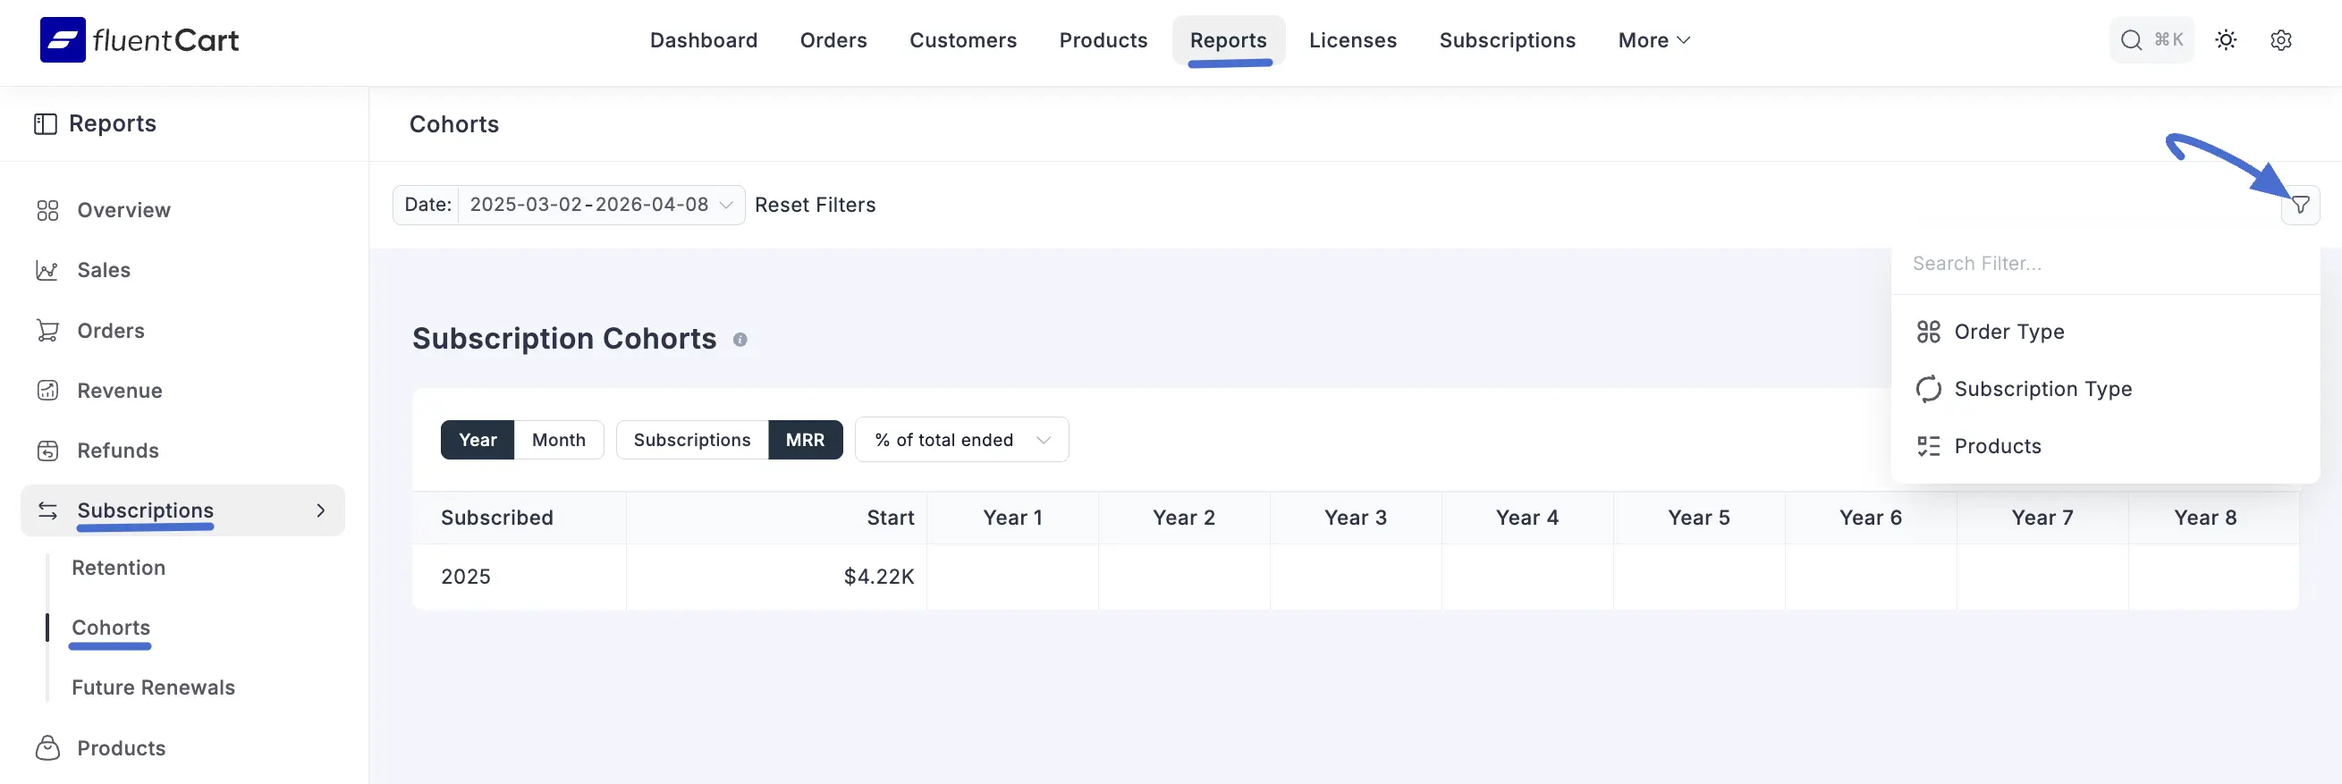
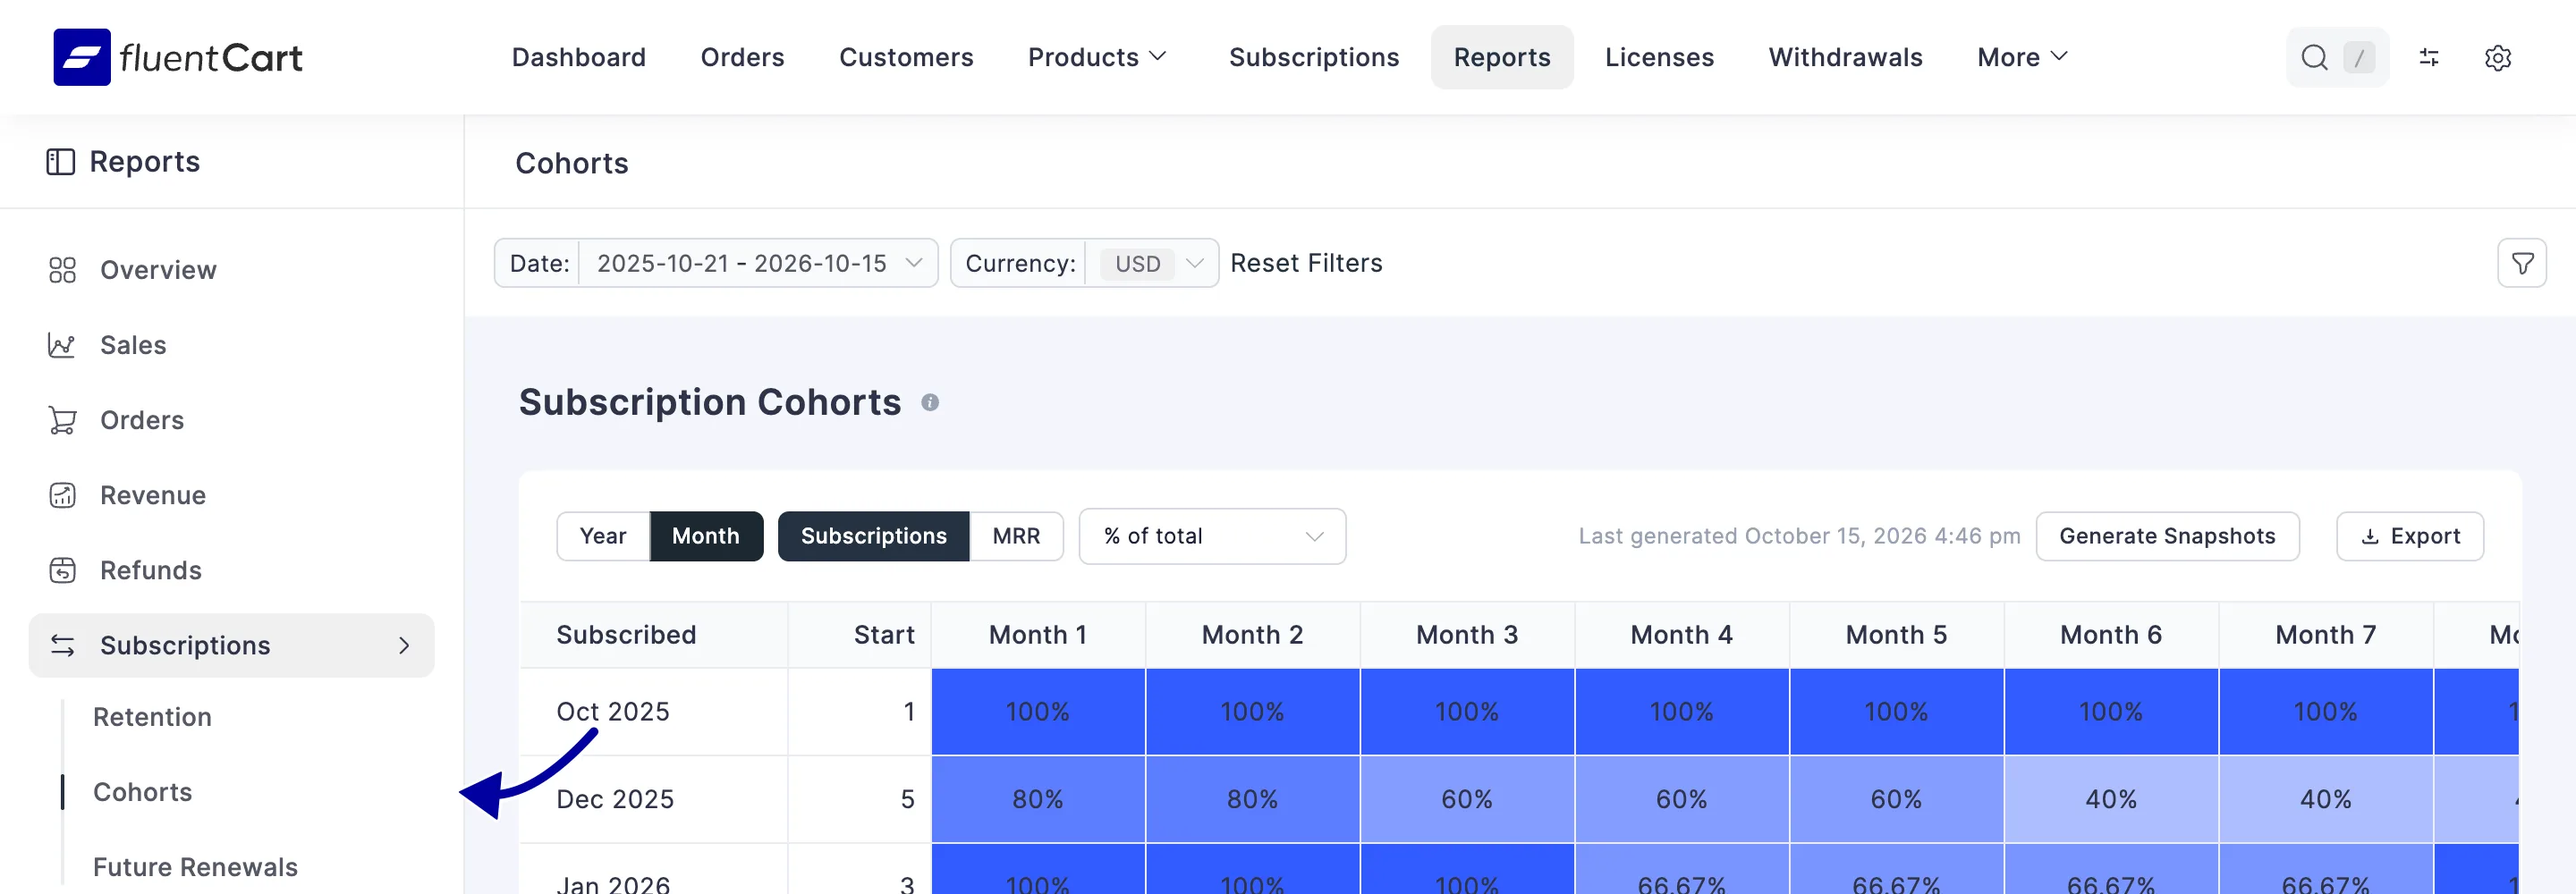
Expand cohorts report documentation
Explain ended-subscription metrics, partial-year cohorts, cell details, and snapshot refresh behavior. Refresh the related report screenshots.

diff --git a/guide/reporting-analytics/cohorts.md b/guide/reporting-analytics/cohorts.md
@@ -43,6 +43,9 @@ The dropdown menu allows you to change how the percentages in the table are calc
 * **% of Total:** Shows how many customers/revenue remains compared to the original start date.
 * **% of Previous:** Shows the retention rate compared to the immediately preceding month.
 * **Total Value:** Displays the actual currency or subscriber numbers instead of percentages.
+* **% of Total Ended:** Shows how much of the original group has churned so far, instead of how much remains. A cohort counts as churned when its subscription goes on hold or officially ends, taking the end date into account. Hover over the info icon beside the report title to read this definition in the app.
+
+A subscriber stops counting toward a cohort from the moment their subscription is canceled or expires, so the later columns reflect only the people who are still subscribed.
 
 ## Understanding the Cohort Table
 
@@ -52,11 +55,18 @@ Each row represents a **Cohort** (a group of subscribers who started in the same
 * **Month 1, Month 2, etc.:** These columns track that specific group as they move through their lifecycle.
 * **Weighted Avg. Retained:** The bottom row provides an aggregate average of how all cohorts perform at each stage, giving you a baseline for your business's overall retention health.
 
+Hover over any cell to see the exact numbers behind it.
+
+### Partial Years
+
+In the **Year** view, a cohort that started this year, or one that is still maturing, has not yet had every month of its later years. FluentCart sizes each yearly cohort from all of its monthly cohorts and marks the figures that are not complete. The hover text on a marked cell reads **Partial** followed by how many of the monthly cohorts have reached that point, for example **Partial: 7 of 12 monthly cohorts have reached this point**. Treat these figures as a preview, because they will change as the remaining months pass.
+
 ## Managing Cohort Data
 
 FluentCart allows you to manage and export this data for external reporting or deeper analysis.
 
-* **Generate Snapshots:** Click this button to refresh and capture the latest data for your cohorts.
+* **Last generated:** The text beside the buttons shows when the cohort data was last refreshed, for example **Last generated October 15, 2026 4:46 pm**. The table is built from snapshots, so new signups and cancellations appear only after the next refresh.
+* **Generate Snapshots:** Click this button to refresh and capture the latest data for your cohorts. FluentCart asks you to confirm because it rebuilds every snapshot, which can take 30 to 60 seconds. It runs in the background, and a message tells you when it finishes. If you have never generated snapshots, the table asks you to click **Generate Snapshots** first.
 * **Export:** Use the Export button to download your cohort data as a CSV file for use in spreadsheet software like Excel or Google Sheets.
 
 ![Cohort Table](/images/reporting-analytics/subscription/cohorts/cohorts-2.webp)
